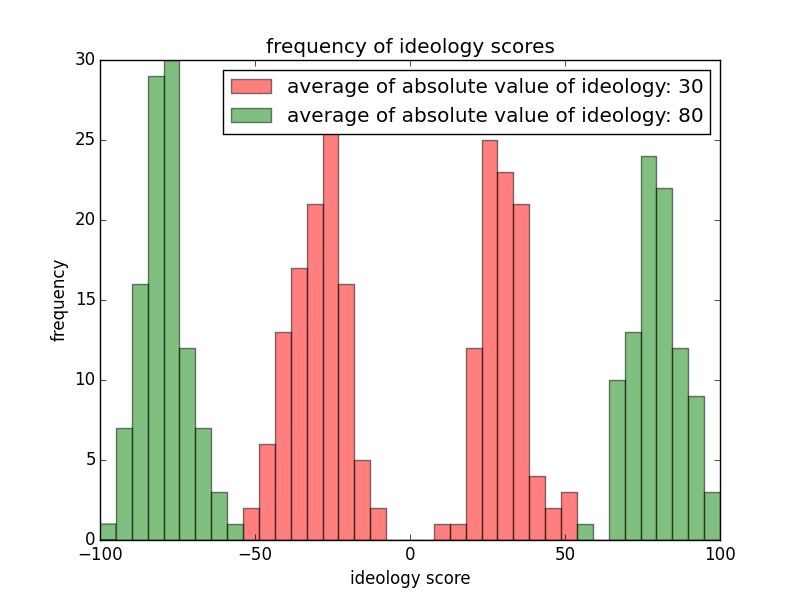
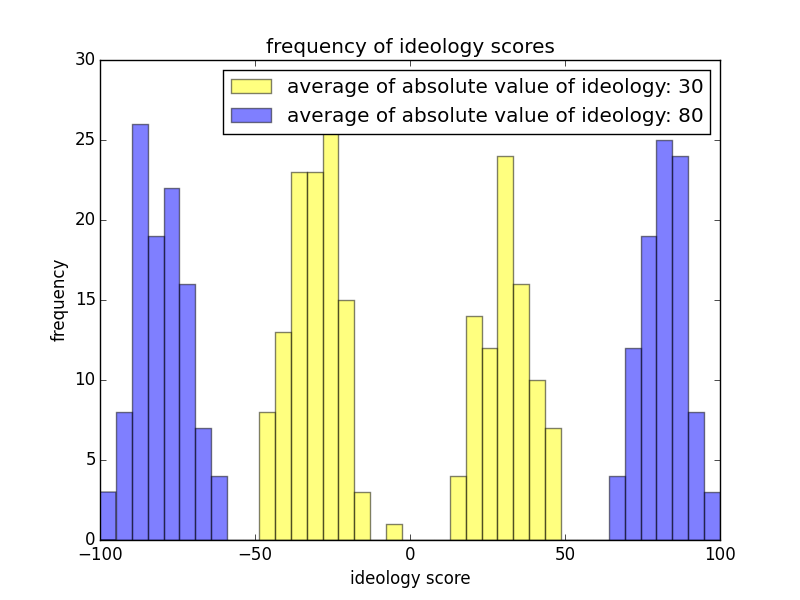
changing plot colors to blue and yellow

Changed region(s): [[0.125, 0.09, 0.9062, 0.9], [0.2812, 0.12, 0.3438, 0.21]]

diff --git a/Simulation/plot_ideologies.py b/Simulation/plot_ideologies.py
@@ -19,8 +19,8 @@ high_ideologies *= np.random.choice([-1,1], size=num_samples)
 bins = np.linspace(-100, 100, 40)
 
 fig, ax = plt.subplots()
-ax.hist(low_ideologies, bins=bins, color='red', alpha=0.5, label='average of absolute value of ideology: {}'.format(ideologies[0]))
-ax.hist(high_ideologies, bins=bins, color='green', alpha=0.5, label='average of absolute value of ideology: {}'.format(ideologies[1]))
+ax.hist(low_ideologies, bins=bins, color='yellow', alpha=0.5, label='average of absolute value of ideology: {}'.format(ideologies[0]))
+ax.hist(high_ideologies, bins=bins, color='blue', alpha=0.5, label='average of absolute value of ideology: {}'.format(ideologies[1]))
 
 ax.set(
 	title='frequency of ideology scores',
